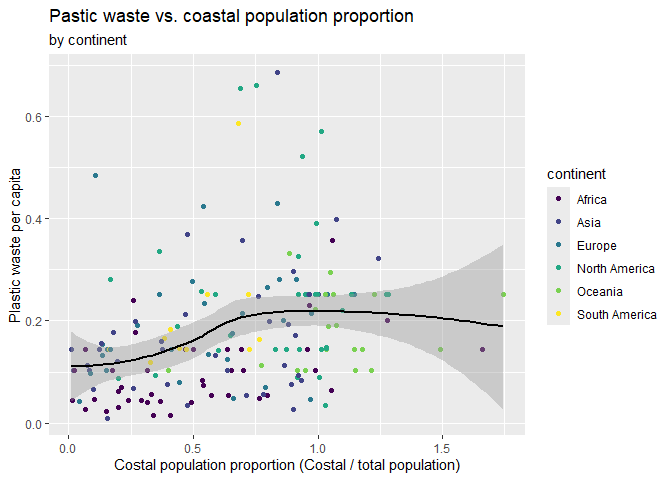
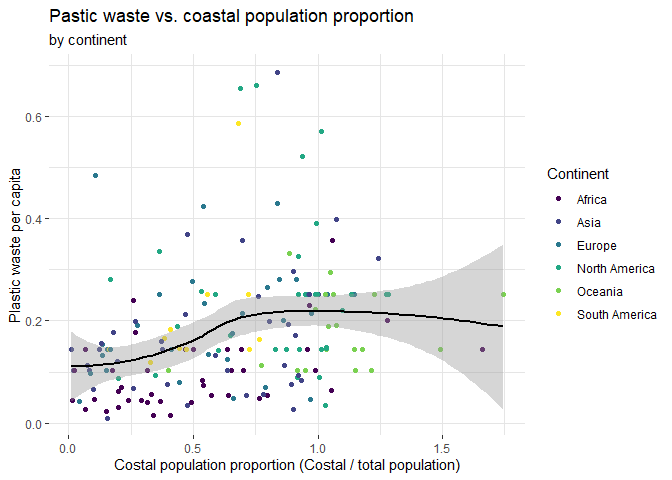
Perfected Ex 5 plot

diff --git a/lab-02.md b/lab-02.md
@@ -187,7 +187,13 @@ labs(
   x = "Costal population proportion (Costal / total population)",
   y = "Plastic waste per capita",
   title = "Pastic waste vs. coastal population proportion",
-  subtitle = "by continent"
+  subtitle = "by continent",
+  color = "Continent"
+) +
+theme(
+    legend.key = element_rect(fill = "transparent"),
+    panel.background = element_rect(fill = "transparent"),
+    panel.grid = element_line(color = "gray90")
 )
 ```
 
